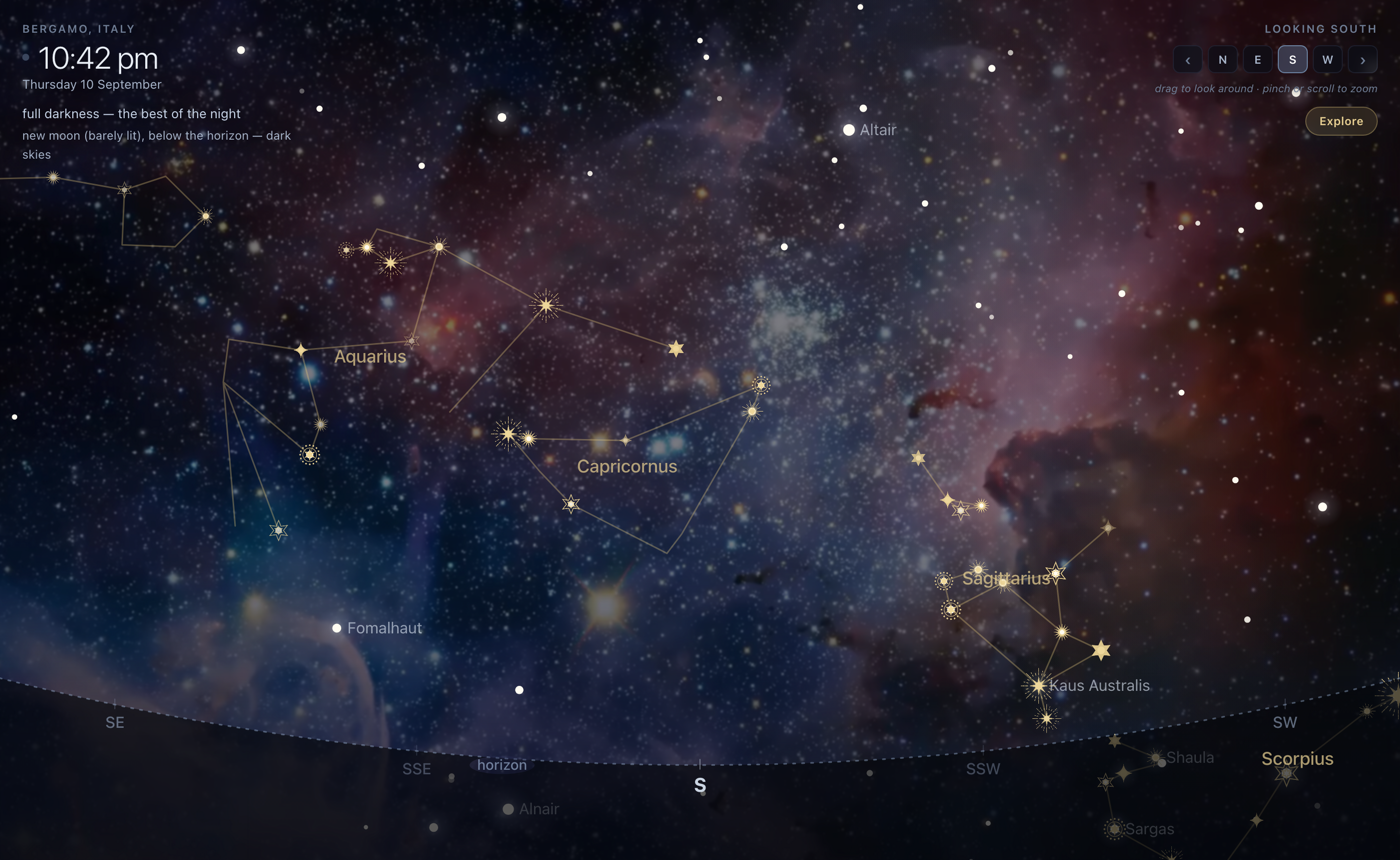
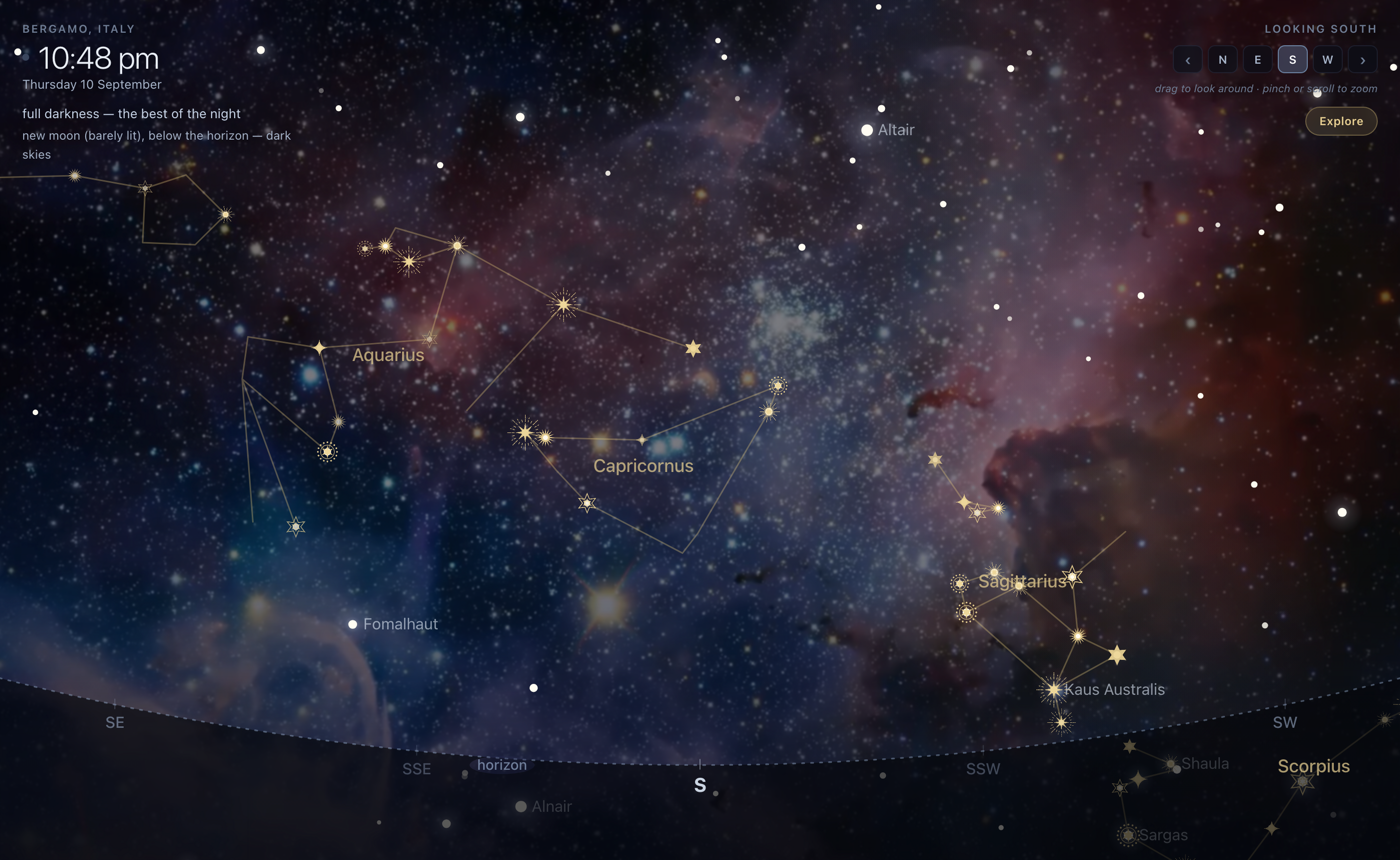
Scale the star dots with the zoom too, but never below their current size
The previous change left the picture scaling inconsistently: glyphs grew and
shrank with the zoom while the plain star dots held a fixed screen size, so
closing in on a constellation enlarged its decoration and left its stars
behind. The same damped zoom factor now governs both, and the hit radius with
them, so clicking a star still lands on it after scaling.

Stars and glyphs take different floors, though, because they had different
problems. The glyphs were genuinely too big when pulled back and are allowed to
shrink to 0.8x below their default. The star dots never were, and the wide view
is precisely where you want to take in the whole sky — thinning them there would
only make it emptier. So stars are floored at their present size: they grow to
1.5x as you close in and never shrink.

  fov 160 (pulled back)   glyphs x0.80   stars x1.00
  fov 110 (default)       glyphs x1.00   stars x1.00
  fov  45 (closed in)     glyphs x1.50   stars x1.50

Measured brightest-star radius: 3.39px at 160 degrees, 3.37px at 110 (i.e.
unchanged from before this commit), 4.48px at 45. Frame cost 1.25ms.

diff --git a/js/sky.js b/js/sky.js
@@ -398,19 +398,29 @@ const Sky = (() => {
   const GLYPH_PX_MIN = 2.2, GLYPH_PX_MAX = 13;
 
   /*
-   * Glyphs follow the zoom, but only part way. Anchoring them to an angular size
-   * swelled them into stickers the moment you zoomed in; pinning them to a fixed
-   * screen size left them crowding each other when zoomed out, which is the wider,
-   * denser view. So the size tracks the zoom with a damped exponent and hard limits
-   * at both ends: they shrink when you pull back to the whole sky, grow when you
-   * close in on one figure, and never run away in either direction.
+   * How drawn things scale with the zoom. Applied to both the stars and the glyphs,
+   * so that closing in on a figure enlarges the whole picture together rather than
+   * growing the decoration while the stars stay put.
+   *
+   * It follows the zoom only part way. Anchoring to a true angular size swells
+   * everything into blobs the moment you zoom in; pinning to a fixed screen size
+   * leaves the sky crowded when you pull back, which is the wider, denser view. So
+   * the size tracks the zoom with a damped exponent and hard limits at both ends.
+   *
+   * Stars and glyphs use different floors, because they had different problems.
+   * The glyphs were genuinely too big pulled back and are allowed to shrink below
+   * their default. The star dots never were, and the wide view is exactly where you
+   * want to take in the whole sky — thinning them there would only make it emptier.
+   * So stars are floored at their current size and can grow but never shrink.
    */
-  const GLYPH_ZOOM_DAMPING = 0.6;
-  const GLYPH_ZOOM_MIN = 0.6, GLYPH_ZOOM_MAX = 1.5;
+  const ZOOM_SIZE_DAMPING = 0.6;
+  const ZOOM_SIZE_MAX = 1.5;
+  const ZOOM_SIZE_MIN_GLYPH = 0.6;
+  const ZOOM_SIZE_MIN_STAR = 1.0;
 
-  function glyphZoomFactor(fovDeg) {
-    const f = Math.pow(REFERENCE_FOV / Math.max(1, fovDeg), GLYPH_ZOOM_DAMPING);
-    return Math.max(GLYPH_ZOOM_MIN, Math.min(GLYPH_ZOOM_MAX, f));
+  function zoomSizeFactor(fovDeg, minFactor = ZOOM_SIZE_MIN_GLYPH) {
+    const f = Math.pow(REFERENCE_FOV / Math.max(1, fovDeg), ZOOM_SIZE_DAMPING);
+    return Math.max(minFactor, Math.min(ZOOM_SIZE_MAX, f));
   }
 
   /* --- the supplied artwork ------------------------------------------------ *
@@ -709,7 +719,9 @@ const Sky = (() => {
     /* ---- stars ---- */
     const now = anim ? anim.t : 0;
     const glyphCandidates = [];
-    const glyphZoom = glyphZoomFactor(view.fovDeg);
+    // Glyphs may shrink when pulled back; stars only ever grow.
+    const zoomSize = zoomSizeFactor(view.fovDeg);
+    const starScale = scale * zoomSizeFactor(view.fovDeg, ZOOM_SIZE_MIN_STAR);
     for (let i = 0; i < data.stars.length; i++) {
       const s = data.stars[i];
       const hz = starAltAz[i];
@@ -745,7 +757,7 @@ const Sky = (() => {
       }
       const edgeFade = Math.min(1, (p.depth - 0.04) * 4);
       const muted = state.selected && (!owner || owner.abbrev !== state.selected);
-      drawStar(ctx, p, s.m, scale,
+      drawStar(ctx, p, s.m, starScale,
         starDim * edgeFade * limitFade * (muted ? 0.4 : 1), tw);
 
       // Glyphs mark the zodiac only. The five circumpolar figures keep their lines,
@@ -753,8 +765,8 @@ const Sky = (() => {
       // decorated look for the twelve the project is actually about, and stops the
       // northern sky from competing with them.
       if (state.showGlyphs && s.g && owner && owner.group === 'zodiac') {
-        const px = glyphScaleFromMag(s.m) * GLYPH_BASE_PX * scale * glyphZoom * tw;
-        const rPx = Math.max(GLYPH_PX_MIN, Math.min(GLYPH_PX_MAX * glyphZoom, px));
+        const px = glyphScaleFromMag(s.m) * GLYPH_BASE_PX * scale * zoomSize * tw;
+        const rPx = Math.max(GLYPH_PX_MIN, Math.min(GLYPH_PX_MAX * zoomSize, px));
         glyphCandidates.push({
           id: s.g, x: p.x, y: p.y, r: rPx, mag: s.m,
           tint: [236, 212, 148],
@@ -763,7 +775,7 @@ const Sky = (() => {
       }
       // Only stars in a told constellation can open a story; the rest are
       // hoverable for their name but not clickable through to a panel.
-      hit.stars.push({ x: p.x, y: p.y, r: starRadius(s.m, scale), star: s,
+      hit.stars.push({ x: p.x, y: p.y, r: starRadius(s.m, starScale), star: s,
                        conAbbrev: owner ? s.c : null });
 
       const named = /^[A-Z][a-z]/.test(s.n);
@@ -936,6 +948,6 @@ const Sky = (() => {
   }
 
   return { render, pick, project, makeView, starRadius, galacticToEquatorial,
-           drawGlyph, glyphScaleFromMag, glyphZoomFactor, preloadGlyphs, glyphArt,
+           drawGlyph, glyphScaleFromMag, zoomSizeFactor, preloadGlyphs, glyphArt,
            COMPASS };
 })();

diff --git a/README.md b/README.md
@@ -206,12 +206,19 @@ where this project's IAU figures carry more vertices the ranks legitimately diff
 **The spec file carries no artwork**, only ids and radii; the artwork arrived
 separately and lives in `assets/glyphs/` — see below.
 
-Glyph size follows the zoom, but only part way. Anchoring them to an angular size
-swelled them into stickers the moment you zoomed in; pinning them to a fixed screen
-size left them crowding each other when pulled back to the whole sky, which is the
-wider and denser view. So the size tracks the zoom with a damped exponent and hard
-limits at both ends — around 21px across for the largest glyph at the widest field,
-27px at the default, 40px closed in on a single figure. Turn them off entirely under
+Size follows the zoom, but only part way, and the same rule governs the star dots so
+the picture scales as one rather than the decoration growing while the stars stay
+put. Anchoring to a true angular size swells everything into blobs the moment you
+zoom in; pinning to a fixed screen size leaves the sky crowded when pulled back,
+which is the wider and denser view. So size tracks the zoom with a damped exponent
+and hard limits at both ends.
+
+Stars and glyphs take different floors, because they had different problems. The
+glyphs were genuinely too big pulled back, so they may shrink to 0.8× below their
+default — the largest is about 21px across at the widest field, 27px at the default,
+40px closed in on one figure. The star dots never were, and the wide view is exactly
+where you want to take in the whole sky, so they are floored at their current size:
+they grow to 1.5× as you close in and never shrink. Turn glyphs off entirely under
 *What you can see*.
 
 ### The artwork
